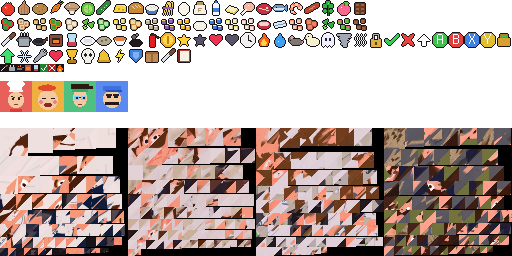
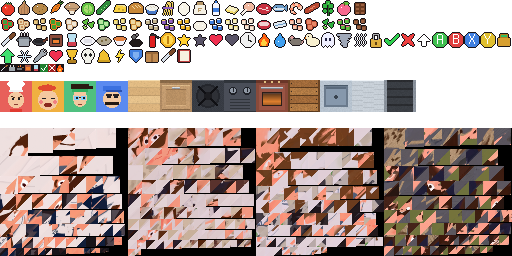
Chaos Kitchen: targeted textures, skirting boards, KITCHEN option
Nine 32x32 textures drawn by mkassets.py at (128, 80) of the sheet:
butcher-block counter tops, cabinet doors on the fronts, steel cookers
with a grate and knobs, the oven door with its lit window, slatted
crates, a sink with its basin, a steel pass, a ribbed conveyor. Only the
top and the camera-facing front of the stations are textured; floor and
walls stay flat (cheaper), the walls get a dark skirting board. Options:
KITCHEN TEXTURED / FLAT goes back to plain colours if the Pi needs it.

Claude-Session: https://claude.ai/code/session_0181uFRTtCvR1GieX3Wr2wwZ

diff --git a/carts/kitchen/mkassets.py b/carts/kitchen/mkassets.py
@@ -9,6 +9,8 @@ Sheet layout (the numbers used by src/41_hud.lua):
   the same chopped 32-54, symbols from 64 (see SYMBOLS below)
   8x8 badges at y = 64: chop boil fry bake blend tick cross fire
   32x32 chef portraits at y = 80: Basil, Bun, Noodle, Pepper
+  32x32 kitchen textures at x = 128 + 32 * i, y = 80 (i: KITCHEN_TEX below,
+  the order of Mesh.TEX in src/21_kitchen_mesh.lua)
   128x128 texture of each chef's 3D model at y = 128, side by side: copied
   from models/chefs.png (made by import_chefs.py)
 The ingredient colours are read from src/10_ingredients.lua.
@@ -586,6 +588,151 @@ def portrait(i):
     S.outline(0x1A1418)
 
 
+# ---------------------------------------------------------------- kitchen textures
+
+# 32x32 each, drawn with light from the top left; noise from a fixed seed
+import random
+_rnd = random.Random(17)
+
+
+def grain(c, k=0.08):
+    return shade(c, 1 + (_rnd.random() - 0.5) * 2 * k)
+
+
+def tex_wood_top():
+    """butcher block: wide strips of light wood, soft joints, fine grain"""
+    cols = [0xE2BC84, 0xD8B07A, 0xE6C28C, 0xDCB47E]
+    for y in range(32):
+        strip = y // 8
+        for x in range(32):
+            c = cols[strip % 4]
+            if y % 8 == 7:
+                c = shade(c, 0.9)                       # the joint between strips
+            elif (x * 3 + y * 7 + strip * 5) % 23 == 0:
+                c = shade(c, 0.94)                      # grain
+            S.set(x, y, grain(c, 0.025))
+    S.rect(0, 0, 32, 1, 0xF4DCB0)                       # the front edge catches light
+
+
+def tex_cabinet():
+    """the front of a counter: a door with a panel and a steel handle"""
+    S.rect(0, 0, 32, 32, 0xB08A62)
+    S.rect(0, 0, 32, 3, 0x8A6A48)                       # the shadow under the top
+    S.rect(2, 5, 28, 25, 0xC49C70)                      # the door
+    S.rect(2, 5, 28, 1, 0xDCB888)
+    S.rect(2, 29, 28, 1, 0x8A6A48)
+    S.rect(6, 9, 20, 17, 0xB89064)                      # the sunk panel
+    S.rect(6, 9, 20, 1, 0x9A7450)
+    S.rect(6, 25, 20, 1, 0xD8B080)
+    S.rect(12, 7, 8, 2, 0xD8DCE0)                       # the handle
+    S.rect(12, 8, 8, 1, 0x8A9098)
+    for y in range(32):
+        for x in range(32):
+            S.set(x, y, grain(rgb_int(S.get(x, y)), 0.04))
+
+
+def rgb_int(p):
+    return p[0] << 16 | p[1] << 8 | p[2]
+
+
+def tex_stove_top():
+    """dark steel with a burner: a ring and a cast-iron grate"""
+    for y in range(32):
+        for x in range(32):
+            S.set(x, y, grain(0x3A3E46 if (x + y) % 2 else 0x363A42, 0.04))
+    S.ellipse(16, 16, 12, 12, 0x24262C)
+    S.ellipse(16, 16, 10, 10, 0x2E3036)
+    S.ellipse(16, 16, 4, 4, 0x1C1C20)
+    for a in range(4):                                  # the grate's arms
+        ang = a * math.pi / 2 + math.pi / 4
+        S.line(16 + math.cos(ang) * 4, 16 + math.sin(ang) * 4,
+               16 + math.cos(ang) * 13, 16 + math.sin(ang) * 13, 0x101014, 2)
+    S.rect(0, 0, 32, 1, 0x5A5E66)
+
+
+def tex_stove_front():
+    """the front under the burner: two knobs and a vent"""
+    S.rect(0, 0, 32, 32, 0x4A4E58)
+    S.rect(0, 0, 32, 3, 0x30343A)
+    for kx in (9, 23):
+        S.circle(kx, 11, 4, 0x1E2026)
+        S.circle(kx, 10.5, 3, 0x9098A4)
+        S.line(kx, 8, kx, 11, 0x1E2026)
+    for i in range(4):                                  # the vent slots
+        S.rect(6, 19 + i * 3, 20, 1, 0x30343A)
+    S.rect(0, 31, 32, 1, 0x30343A)
+
+
+def tex_oven():
+    """a brick-red oven door with a glowing window and a handle"""
+    S.rect(0, 0, 32, 32, 0x8A4A3A)
+    S.rect(0, 0, 32, 3, 0x6A3628)
+    S.rect(3, 5, 26, 25, 0x9A5444)
+    S.rect(5, 7, 22, 2, 0xC8CCD2)                       # the handle
+    S.rect(5, 8, 22, 1, 0x7A8088)
+    S.rect(6, 12, 20, 14, 0x2A1E1A)                     # the window
+    for y in range(13, 25):
+        for x in range(7, 25):
+            t = 1 - abs(y - 21) / 10
+            S.set(x, y, mix(0x3A2418, 0xF08830, max(0, t) * 0.9))
+    S.rect(7, 13, 18, 1, 0x5A4034)
+    for i in range(3):                                  # the dials above
+        S.circle(9 + i * 7, 2, 1, 0xE0C080)
+
+
+def tex_crate():
+    """a crate's side: slats with nails"""
+    for y in range(32):
+        for x in range(32):
+            c = 0xB07A44 if (y // 8) % 2 else 0xA06A3A
+            if y % 8 == 7:
+                c = 0x5A3A1E
+            S.set(x, y, grain(c, 0.08))
+    for y in (3, 11, 19, 27):
+        S.set(3, y, 0x3A2A1E)
+        S.set(28, y, 0x3A2A1E)
+    S.rect(0, 0, 2, 32, 0x6A4424)
+    S.rect(30, 0, 2, 32, 0x6A4424)
+
+
+def tex_sink():
+    """a steel counter with a basin and the drain"""
+    for y in range(32):
+        for x in range(32):
+            S.set(x, y, grain(0xB8C4D0, 0.03))
+    S.rect(4, 5, 24, 22, 0x6A7A8C)                      # the basin's walls
+    S.rect(6, 7, 20, 18, 0x8698AC)                      # its floor
+    S.rect(6, 7, 20, 2, 0x5A6A7C)
+    S.circle(16, 17, 2, 0x3A4450)                       # the drain
+    S.rect(4, 5, 24, 1, 0x4A5A6A)
+    S.rect(0, 0, 32, 1, 0xE0E8F0)
+
+
+def tex_steel():
+    """brushed steel: long faint lines"""
+    for y in range(32):
+        for x in range(32):
+            c = 0xC8D0D8 if (y * 7 + x // 11) % 5 else 0xB8C0C8
+            S.set(x, y, grain(c, 0.02))
+    S.rect(0, 0, 32, 1, 0xF0F4F8)
+
+
+def tex_belt():
+    """a conveyor from above: rubber belt over rollers (runs along y)"""
+    for y in range(32):
+        for x in range(32):
+            c = 0x3A3E44
+            if y % 8 in (0, 1):
+                c = 0x2A2C30                           # the rubber's ribs
+            if x < 3 or x > 28:
+                c = 0x8A929C                            # the side rails
+            S.set(x, y, grain(c, 0.05))
+
+
+KITCHEN_TEX = [tex_wood_top, tex_cabinet, tex_stove_top, tex_stove_front, tex_oven,
+               tex_crate, tex_sink, tex_steel, tex_belt]
+
+
 # ---------------------------------------------------------------- cover
 
 def cover():
@@ -636,6 +783,9 @@ def main():
         mini(i, name)
     for i in range(4):
         portrait(i)
+    for i, fn in enumerate(KITCHEN_TEX):
+        S.cell(128 + 32 * i, 80, 32, 32)
+        fn()
     S.cell(0, 0, 0, 0)
     # the chefs' model textures
     tex = os.path.join(HERE, "models", "chefs.png")

diff --git a/docs/ROADMAP.md b/docs/ROADMAP.md
@@ -509,6 +509,13 @@ Dopo: variazioni di lancio per cuoco.
   originali** (tutti alti circa 1 casella: Basil 0,92, Bun 1,00, Noodle 1,00, Pepper
   0,88), invece delle altezze dei vecchi chef a blocchi (1,35 / 1,05 / 1,65 / 0,92)
   imposte dall'import; texture e forme invariate (`import_chefs.py`).
+- **Restyling con texture mirate** (2026-09-30, dopo M14): piani dei banconi in legno,
+  ante sui fronti, fornelli in acciaio con griglia e manopole, sportello del forno con
+  la finestra accesa, casse a doghe, lavello con vasca, passe in acciaio, nastro a
+  rulli (9 texture 32×32 nel foglio in (128, 80), `mkassets.py`); pavimento e pareti
+  restano a tinta unita (costano meno) con uno zoccolo scuro alla base dei muri.
+  Opzione **KITCHEN: TEXTURED / FLAT** per tornare ai colori pieni se sul Pi non
+  bastano i 60 fps. Da misurare sul Pi.
 
 ## M18 — WiFi e console di rete (L/XL)
 Decisione 2026-09-28: versioni "leggere", in coda dopo M17.
